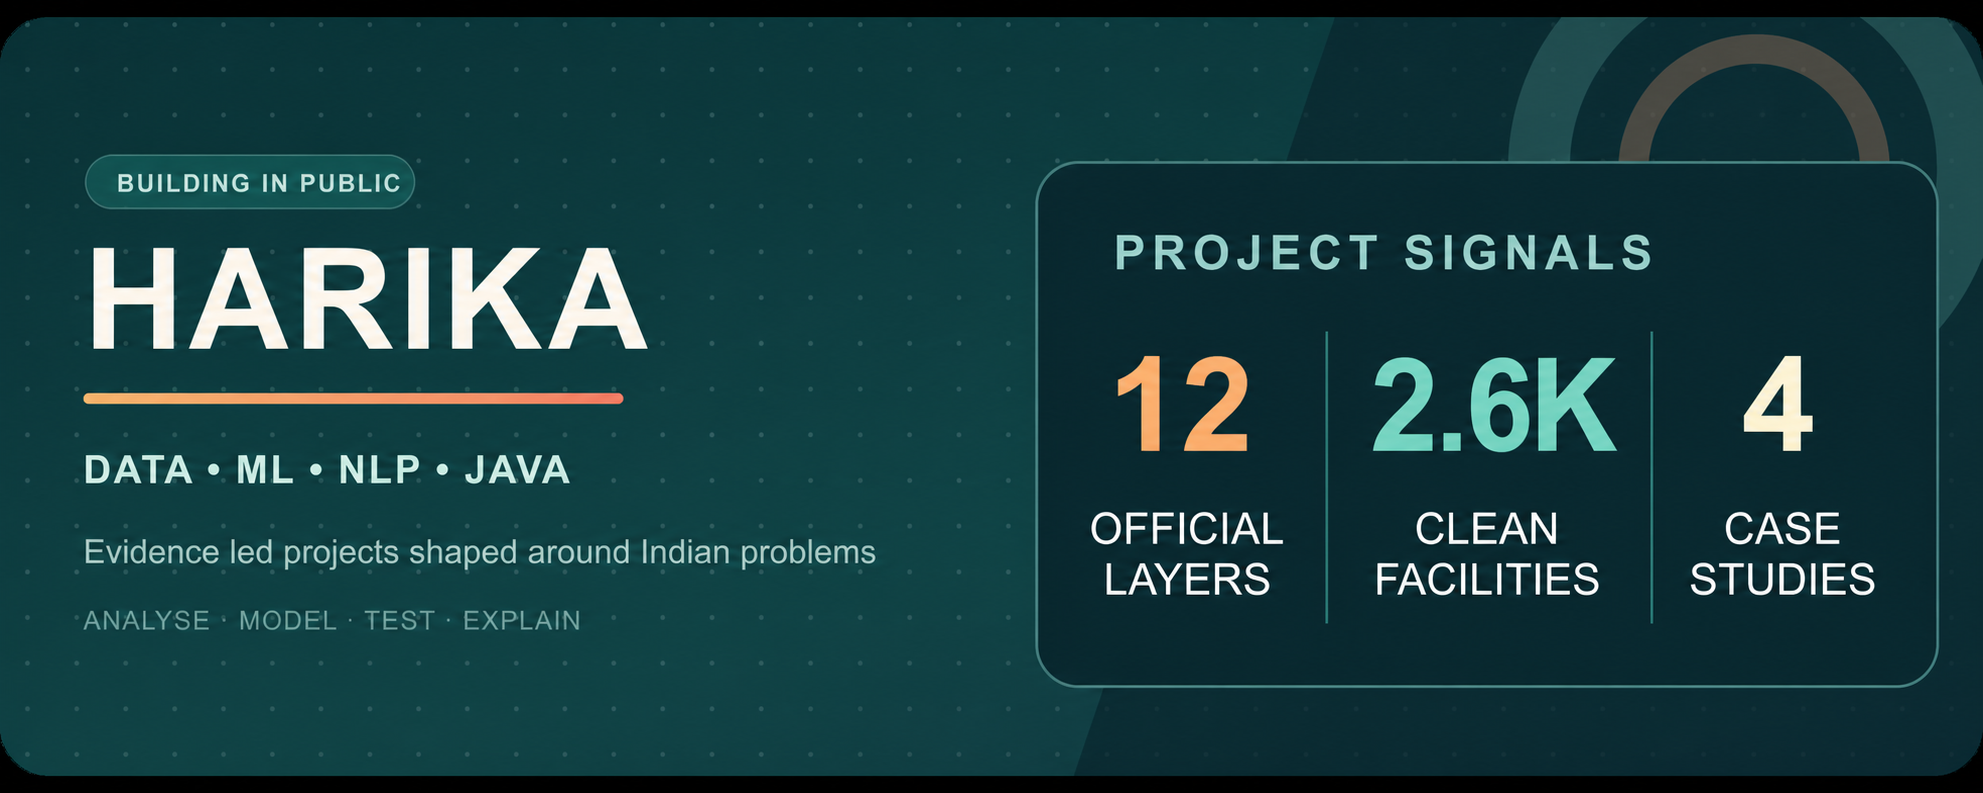
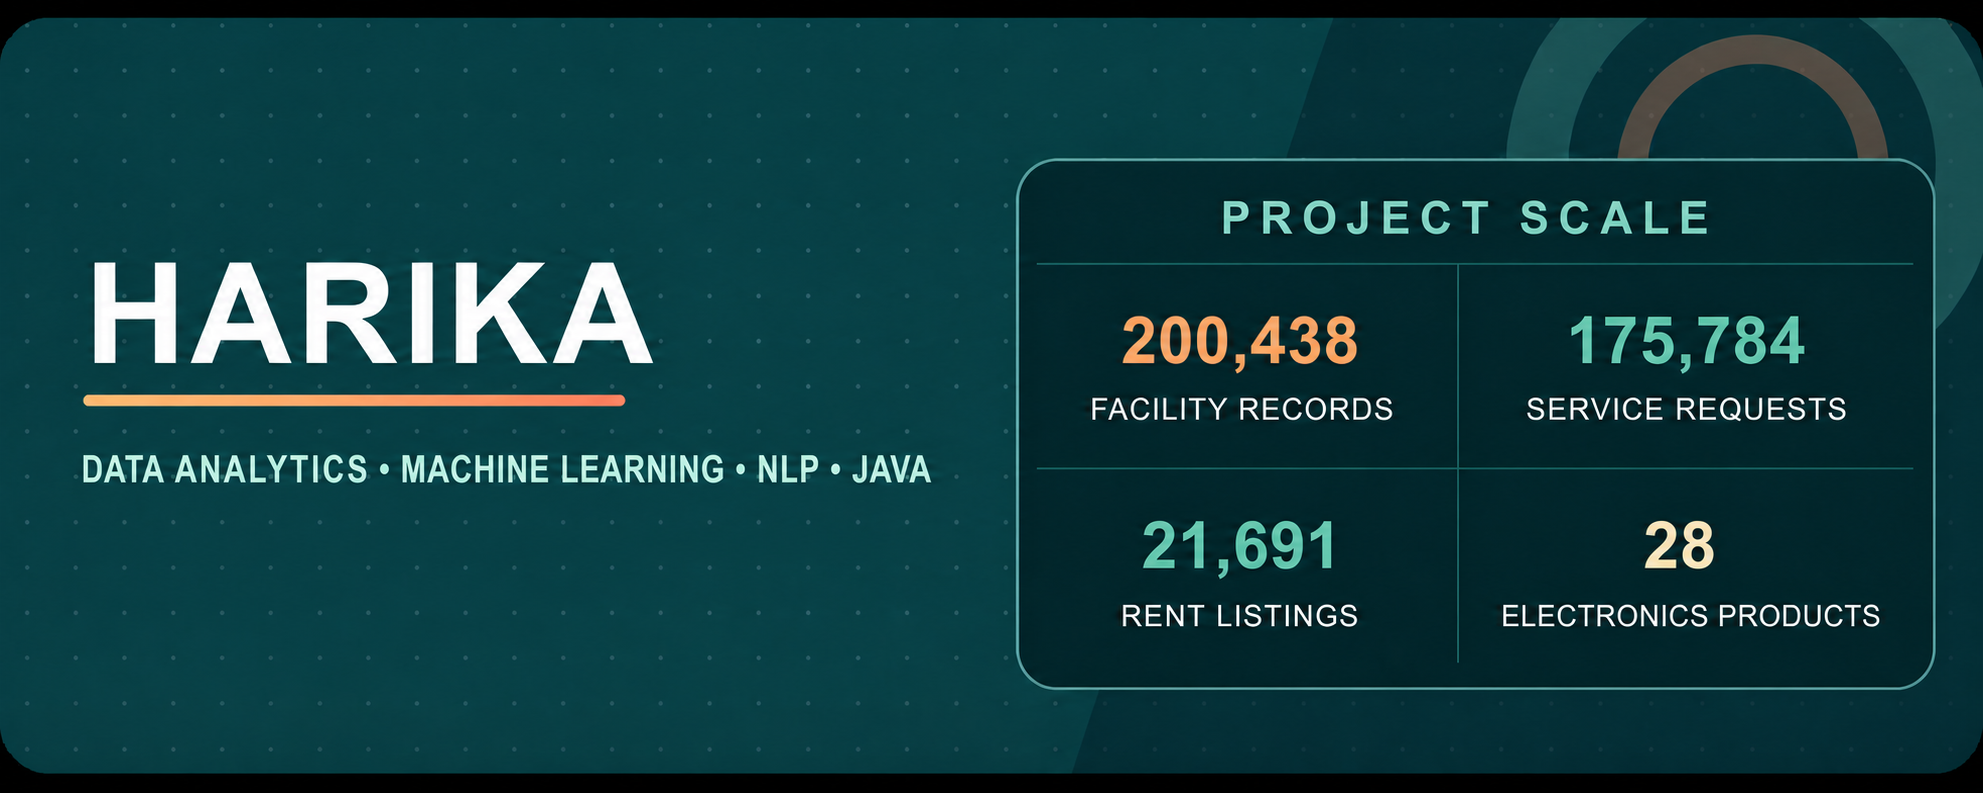
Correct profile metrics and project language

diff --git a/README.md b/README.md
@@ -11,7 +11,7 @@
   <a href="https://github.com/harikareddy9878-rgb?tab=repositories"><img alt="View repositories" src="https://img.shields.io/badge/Explore-All%20projects-157a76?style=for-the-badge&logo=github&logoColor=white" /></a>
 </p>
 
-## Portfolio snapshot
+## Project snapshot
 
 | Direction | Project | Evidence |
 | :--- | :--- | ---: |
@@ -29,9 +29,9 @@
     <td width="58%"><a href="https://github.com/harikareddy9878-rgb/caremap-facility-analytics"><img src="assets/caremap-dashboard.png" width="100%" alt="CareMap health facility dashboard" /></a></td>
     <td width="42%" valign="top">
       <p><strong>The issue</strong><br/>A nationwide directory is large enough that duplicate facilities, invalid coordinates, and inconsistent labels can distort a facility access view.</p>
-      <p><strong>The build</strong><br/>A Python acquisition and quality pipeline, an analysis table, validation tests, DAX measures, a four page Power BI build guide, and a twelve page research report.</p>
+      <p><strong>The build</strong><br/>A Python acquisition and quality pipeline, an analysis table, validation tests, DAX measures, a four page Power BI build guide, and a fifteen page technical report.</p>
       <p><strong>The outcome</strong><br/>200,438 source records became 193,783 clean records after 6,655 duplicates were removed. The final model covers 36 state and union territory labels, 688 state and district combinations, and 99.7% mapped records.</p>
-      <p><a href="https://github.com/harikareddy9878-rgb/caremap-facility-analytics"><strong>Repository</strong></a> · <a href="https://github.com/harikareddy9878-rgb/caremap-facility-analytics/blob/main/reports/CareMap_Facility_Analytics_Report.pdf">PDF report</a></p>
+      <p><a href="https://github.com/harikareddy9878-rgb/caremap-facility-analytics"><strong>Repository</strong></a> · <a href="https://github.com/harikareddy9878-rgb/caremap-facility-analytics/blob/main/reports/CareMap_Report.pdf">PDF report</a></p>
     </td>
   </tr>
 </table>
@@ -44,7 +44,7 @@
       <p><strong>The issue</strong><br/>Rental listings are inconsistent across cities and a single estimate can hide wide local variation.</p>
       <p><strong>The build</strong><br/>Two public rental sources, one cleaning pipeline, a leakage controlled train, calibration, and test split, a city median baseline, error analysis, and a calibrated interval.</p>
       <p><strong>The outcome</strong><br/>21,691 source listings produced 12,201 model rows across Bangalore, Mumbai, Nagpur, New Delhi, and Pune. On 1,831 unseen listings, MAE was ₹11,652 compared with a ₹22,122 city median baseline; the interval covered 89.7% of test rents.</p>
-      <p><a href="https://github.com/harikareddy9878-rgb/metrorent-price-estimator"><strong>Repository</strong></a> · <a href="https://github.com/harikareddy9878-rgb/metrorent-price-estimator/blob/main/reports/MetroRent_Price_Estimator_Report.pdf">PDF report</a></p>
+      <p><a href="https://github.com/harikareddy9878-rgb/metrorent-price-estimator"><strong>Repository</strong></a> · <a href="https://github.com/harikareddy9878-rgb/metrorent-price-estimator/blob/main/reports/MetroRent_Report.pdf">PDF report</a></p>
     </td>
     <td width="58%"><a href="https://github.com/harikareddy9878-rgb/metrorent-price-estimator"><img src="assets/metrorent-evaluation.png" width="100%" alt="MetroRent model evaluation" /></a></td>
   </tr>
@@ -59,7 +59,7 @@
       <p><strong>The issue</strong><br/>A citizen service request can be delayed when it reaches the wrong queue, while an automatic system should not hide uncertainty.</p>
       <p><strong>The build</strong><br/>An interpretable TF IDF and logistic regression pipeline with deduplication, random and category-group holdouts, a confidence threshold, and manual review.</p>
       <p><strong>The outcome</strong><br/>175,784 source records produced 36,805 prepared examples across eight service queues. The harder unseen-category holdout reached 0.974 macro F1 and retained 15.2% of requests for review.</p>
-      <p><a href="https://github.com/harikareddy9878-rgb/civicroute-service-request-triage"><strong>Repository</strong></a> · <a href="https://github.com/harikareddy9878-rgb/civicroute-service-request-triage/blob/main/reports/CivicRoute_Service_Request_Triage_Report.pdf">PDF report</a></p>
+      <p><a href="https://github.com/harikareddy9878-rgb/civicroute-service-request-triage"><strong>Repository</strong></a> · <a href="https://github.com/harikareddy9878-rgb/civicroute-service-request-triage/blob/main/reports/CivicRoute_Report.pdf">PDF report</a></p>
     </td>
   </tr>
 </table>
@@ -69,10 +69,10 @@
 <table>
   <tr>
     <td width="42%" valign="top">
-      <p><strong>The issue</strong><br/>A useful retail demonstration needs consistent behaviour from search and stock through cart, payment outcome, delivery, orders, account, and support.</p>
-      <p><strong>The build</strong><br/>A responsive Indian electronics experience, a Java Spring Boot order coordinator with five bounded agents, inventory reservation and release, an eight stage delivery timeline, and Ezzie for product, cart, delivery, return, and order questions.</p>
-      <p><strong>The outcome</strong><br/>Twenty eight products across seven categories support available, low stock, unavailable, confirmed, shipped, delivered, payment failed, and stock changed scenarios. Ten JavaScript tests and four Java tests verify cart rules, stock commit and release, safe failure paths, delivery milestones, and assistant boundaries.</p>
-      <p><a href="https://bigtech-store.vercel.app/"><strong>Live project</strong></a> · <a href="https://github.com/harikareddy9878-rgb/bigtech-electronics-store">Source</a> · <a href="https://github.com/harikareddy9878-rgb/bigtech-electronics-store/blob/main/reports/BigTech_Electronics_Store_Report.pdf">PDF report</a></p>
+      <p><strong>The issue</strong><br/>A useful retail application needs consistent behaviour from search and stock through cart, payment outcome, delivery, orders, account, and support.</p>
+      <p><strong>The build</strong><br/>A responsive Indian electronics experience backed by a Java 17 Spring Boot order API. The backend validates requests, coordinates five bounded components, reserves and releases inventory, stops safely after failure, and returns an eight stage delivery contract. Ezzie uses the same saved product and order state.</p>
+      <p><strong>The outcome</strong><br/>Twenty eight products across seven categories support available, low stock, unavailable, confirmed, shipped, delivered, payment failed, and stock changed scenarios. Ten JavaScript tests and four JUnit tests verify browser rules and backend commit, release, rejection, stopping paths and delivery milestones.</p>
+      <p><a href="https://bigtech-store.vercel.app/"><strong>Live project</strong></a> · <a href="https://github.com/harikareddy9878-rgb/bigtech-electronics-store">Source</a> · <a href="https://github.com/harikareddy9878-rgb/bigtech-electronics-store/blob/main/reports/BigTech_Report.pdf">PDF report</a></p>
     </td>
     <td width="58%"><a href="https://bigtech-store.vercel.app/"><img src="assets/bigtech-ezzie-support.png" width="100%" alt="BigTech electronics store with Ezzie support" /></a></td>
   </tr>
